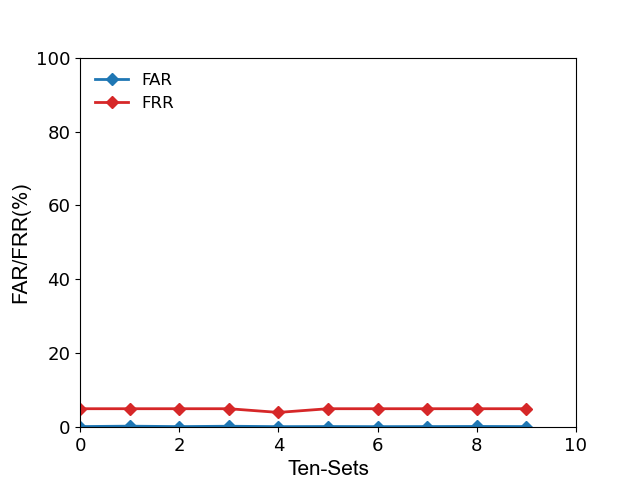
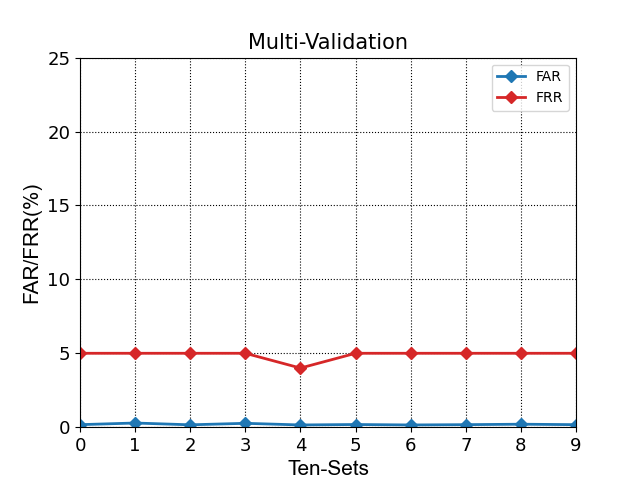
modify

diff --git a/exp.py b/exp.py
@@ -119,9 +119,9 @@ def exp_bias():
     plt.xticks(fontsize=13) #x轴刻度字体大小
     plt.yticks(fontsize=13) #y轴刻度字体大小
     plt.xlim(0,9)#X轴范围
-    plt.ylim(0,100)#显示y轴范围
+    plt.ylim(0,30)#显示y轴范围
 
-    plt.savefig('pics/Multi-Validation_1.png')
+    plt.savefig('pics/Multi-Validation_2.png')
     plt.close()
 
 exp_bias()
